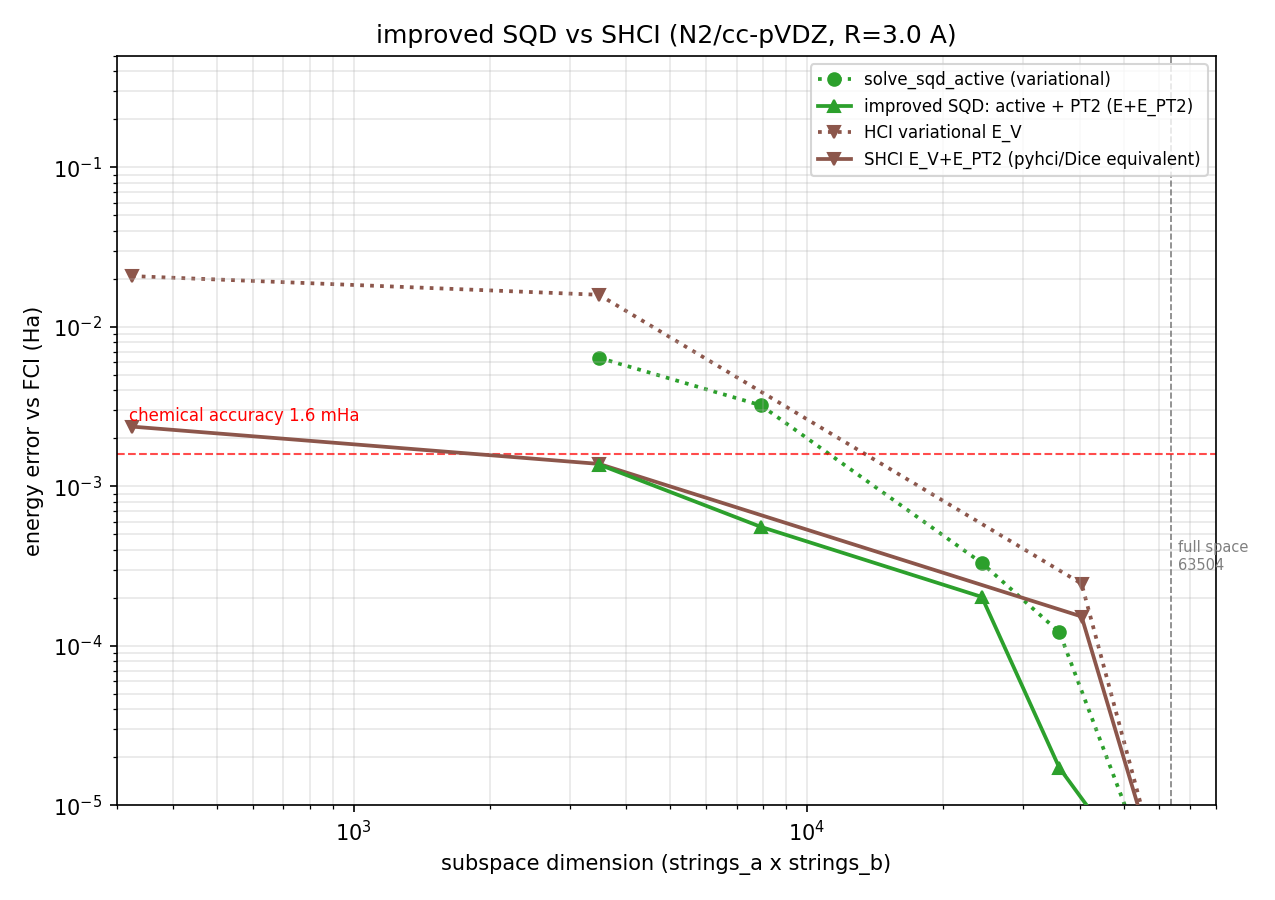
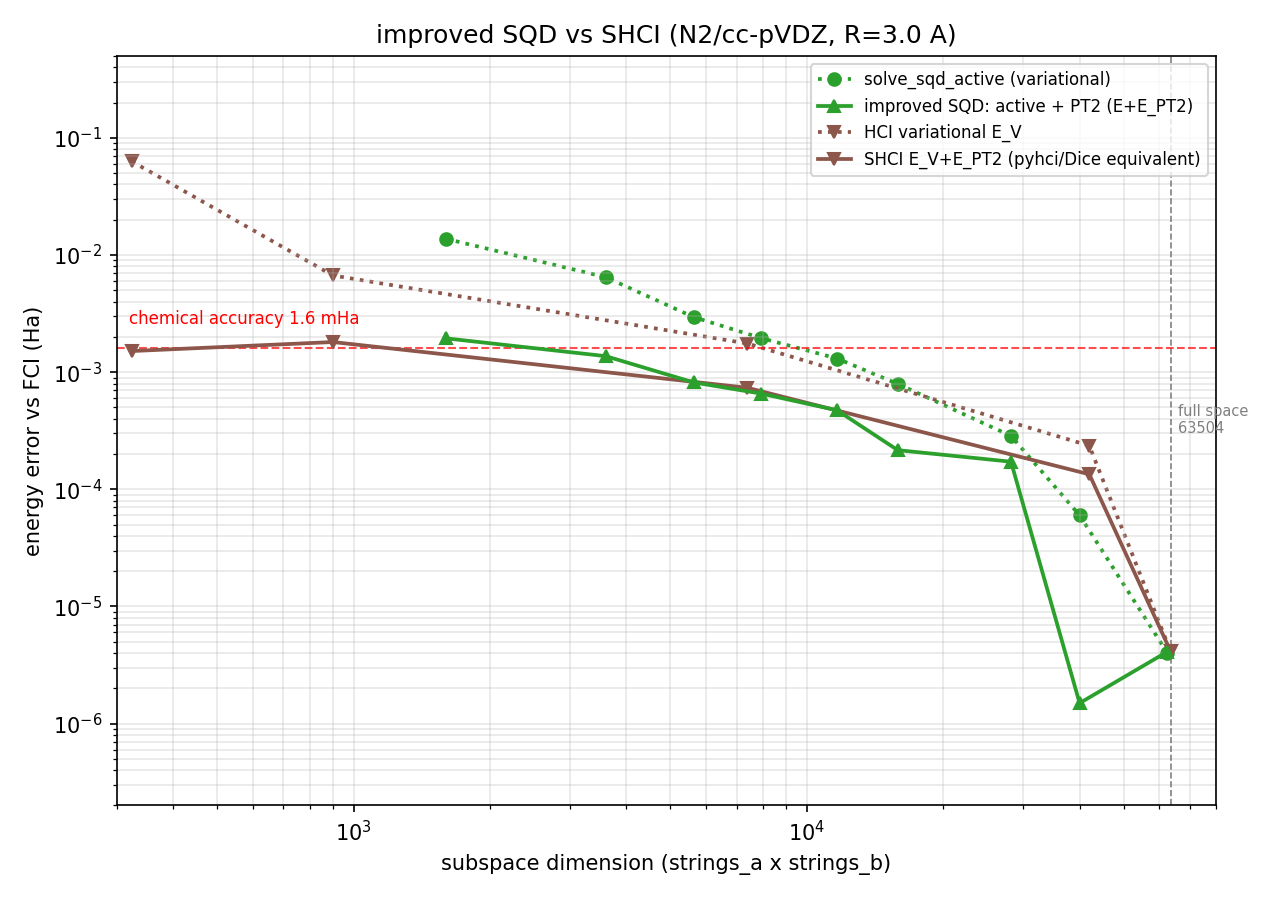
fig: N2/cc-pVDZ 对照图加密点数 + 修复 y 轴裁剪 + --plot 缓存模式
- 加密网格: SHCI eps 10->24 (敏感区间 7.5e-2..6.8e-2 细扫), SQD shots x ms
  8->15 组合, 目标维度 10->15 档 -> improved SQD 9 点 [1600,62500] 连续,
  SHCI 5 点 (eps 维度重复率高, 有效 {144,324,900,7396,42025,63504})
- 修复 y 轴裁剪: 下限 1e-5 -> 2e-7 (原裁剪 ~2e-6 高维度趋同点)
- 反超放大确认: dim 40000 时 improved SQD 1.49e-6 vs SHCI 42025@1.34e-4
  (~90 倍), 第二个体系复现并放大 C2 结论
- 脚本加 --plot 缓存模式 (改样式秒出, 不重跑 ~2h 收集)
- REVIEW.md + 记忆更新

diff --git a/examples/plot_improved_sqd_vs_shci_n2_ccpvdz.py b/examples/plot_improved_sqd_vs_shci_n2_ccpvdz.py
@@ -42,20 +42,25 @@ def _collect():
     print(f"N2/cc-pVDZ R=3.0 FCI={e_fci:.6f} full={full}")
 
     if not P["shci"]:
-        for eps in [1e-1, 8e-2, 7.2e-2, 7e-2, 6.95e-2, 6.9e-2,
-                    6.85e-2, 6.8e-2, 6.5e-2, 3e-2]:
+        # SHCI: eps 加密 (敏感区间 7.5e-2..6.5e-2 细扫, 覆盖 324->58564 中间维度)
+        for eps in [1e-1, 9e-2, 8.5e-2, 8e-2, 7.5e-2, 7.3e-2, 7.2e-2, 7.1e-2,
+                    7.05e-2, 7.0e-2, 6.95e-2, 6.92e-2, 6.90e-2, 6.88e-2,
+                    6.86e-2, 6.84e-2, 6.82e-2, 6.80e-2, 6.6e-2, 6.4e-2,
+                    6.0e-2, 4e-2, 2e-2, 1e-2]:
             e_t, e_pt2, dim = tc_sqd.solve_hci(
                 h1e, eri, NCAS, (NELEC // 2, NELEC // 2), eps_hb=eps,
                 max_iter=15, ecore=ecore, return_details=True, verbose=False)
             P["shci"].append((dim, abs(e_t - e_fci)))
             P["hci_ev"].append((dim, abs((e_t - e_pt2) - e_fci)))
-            print(f"SHCI eps={eps:.1e}: dim={dim} "
+            print(f"SHCI eps={eps:.3e}: dim={dim} "
                   f"errSHCI={P['shci'][-1][1]:.2e}", flush=True)
         np.save(NPY, P, allow_pickle=True)
 
     if not P["active_pt2"]:
-        grid = [(4, 60), (8, 90), (15, 120), (30, 200), (60, None),
-                (120, None), (300, None), (800, None)]
+        # SQD: shots x max_strings 加密 (维度 ~2500 -> 63000)
+        grid = [(3, 40), (4, 60), (5, 80), (8, 100), (12, 130), (15, 160),
+                (20, 200), (30, 250), (40, None), (60, None), (80, None),
+                (120, None), (200, None), (400, None), (800, None)]
         for s, ms in grid:
             b = np.random.default_rng(0).random((s, 2 * NCAS)) > 0.5
             p = np.full(s, 1.0 / s)
@@ -91,7 +96,7 @@ def _plot(P):
     matplotlib.use("Agg")
     import matplotlib.pyplot as plt
 
-    targets = list(np.geomspace(300, 63000, 10))
+    targets = list(np.geomspace(300, 63000, 15))
     shci = _uniform(P["shci"], targets)
     hci_ev = _uniform(P["hci_ev"], targets)
     a_pt2 = _uniform(P["active_pt2"], targets)
@@ -123,7 +128,8 @@ def _plot(P):
     ax.set_title("improved SQD vs SHCI (N2/cc-pVDZ, R=3.0 A)", fontsize=12)
     ax.legend(fontsize=8, loc="upper right")
     ax.set_xlim(300, 80000)
-    ax.set_ylim(1e-5, 0.5)
+    # 下界放到数据最小量级以下 (min ~2e-6), 避免裁剪高维度趋同点
+    ax.set_ylim(2e-7, 0.5)
     ax.grid(True, which="both", alpha=0.3)
 
     out = os.path.join(BASE, "fig_improved_sqd_vs_shci_n2_ccpvdz.png")
@@ -135,4 +141,15 @@ def _plot(P):
 
 
 if __name__ == "__main__":
-    _plot(_collect())
+    import argparse
+    ap = argparse.ArgumentParser()
+    ap.add_argument("--plot", action="store_true",
+                    help="只用缓存数据出图 (跳过耗时数据收集)")
+    args = ap.parse_args()
+    if args.plot:
+        if not os.path.exists(NPY):
+            raise SystemExit(f"无缓存数据 {NPY}, 请先不带 --plot 跑一次收集。")
+        P = np.load(NPY, allow_pickle=True).item()
+    else:
+        P = _collect()
+    _plot(P)
